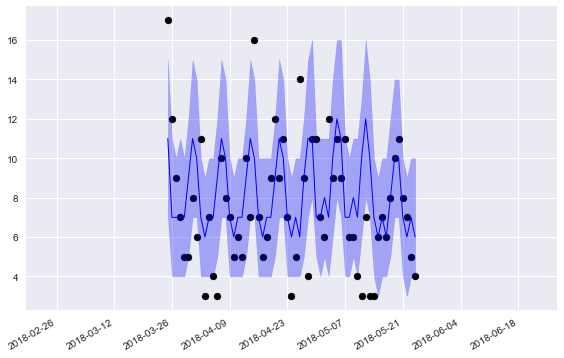
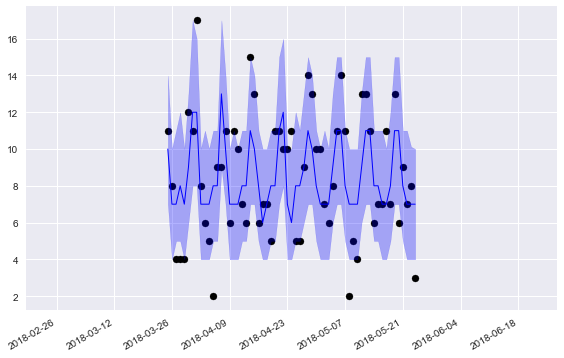
updating example

diff --git a/_posts/2019-10-24-pybats_example.md b/_posts/2019-10-24-pybats_example.md
@@ -13,12 +13,12 @@ In this example we will model a simulated dataset of daily item sales. Because t
 
 $$y_t \sim Pois(\mu_t)$$
 
-$$ log(\mu_t) = \lambda_t = F_t^{'} \theta_t $$
+$$\log(\mu_t) = \lambda_t = F_t^{'} \theta_t$$
 
 
-Where:
-$$\theta_t$$ is the state vector,
-$$\mu_t$$ is the Poisson mean, 
+Where 
+$$\theta_t$$ is the state vector, 
+$$\mu_t$$ is the Poisson mean, and 
 $$\lambda_t$$ is called the linear predictor.
 
 We're going to define a dynamic model with the following components in the state vector:
@@ -84,33 +84,33 @@ data.head()
   <tbody>
     <tr>
       <td>2014-06-01</td>
-      <td>6.0</td>
-      <td>-0.03</td>
+      <td>16.0</td>
+      <td>0.10</td>
       <td>0.0</td>
     </tr>
     <tr>
       <td>2014-06-02</td>
-      <td>10.0</td>
-      <td>0.14</td>
-      <td>0.0</td>
+      <td>6.0</td>
+      <td>-0.12</td>
+      <td>1.0</td>
     </tr>
     <tr>
       <td>2014-06-03</td>
-      <td>8.0</td>
-      <td>-0.09</td>
-      <td>0.0</td>
+      <td>11.0</td>
+      <td>0.06</td>
+      <td>1.0</td>
     </tr>
     <tr>
       <td>2014-06-04</td>
-      <td>6.0</td>
-      <td>-0.13</td>
+      <td>11.0</td>
+      <td>0.09</td>
       <td>0.0</td>
     </tr>
     <tr>
       <td>2014-06-05</td>
-      <td>10.0</td>
-      <td>-0.05</td>
-      <td>0.0</td>
+      <td>18.0</td>
+      <td>0.09</td>
+      <td>1.0</td>
     </tr>
   </tbody>
 </table>
@@ -191,7 +191,7 @@ plt.show(fig)
 ![png](../img/pybats_example_imgs/output_14_0.png)
 
 
-We're plotting the median forecasts along with the 75\% credible intervals. One very clear pattern is the weekly effect, with a weekly spike in our forecasts. There's also a very noticable holiday effect - sales are unpredictable on holidays, and our credible intervals become very large.
+We're plotting the median forecasts along with the 75% credible intervals. One very clear pattern is the weekly effect, with a weekly spike in our forecasts. There's also a very noticable holiday effect - sales are unpredictable on holidays, and our credible intervals become very large.
 
 You're probably wondering: How accurate are those point forecasts?
 
@@ -202,15 +202,15 @@ print(MAD(data_1step.Sales, median(samples_1step)))
 print(ZAPE(data_1step.Sales, median(samples_1step)))
 ```
 
-    2.35559921415
-    36.7385246064
+    2.86935166994
+    43.2259680035
 
 
 The first loss function is the Mean Absolute Deviation (MAD). Note that we're using the median for our point forecast - the median is the optimal forecast for minimizing the MAD, just as the mean is optimal for minimizing the Mean Square Error (MSE).
 
 The second number is the Zero-Adjusted Absolute Percent Error (ZAPE). This is equivalent to the Mean Absolute Percent Error (MAPE), but is still defined even when the sales are 0. On days when sales are 0, then the ZAPE loss is equal to the forecast. Interpreting this as a percent error metric, we're off by a significant margin - but not bad for noisy sales data either! The median is not the optimal forecast to minimize ZAPE, but it's a simple and easy point forecast to obtain.
 
-Okay, now let's zoom in to just the final 60 days of forecasting, to a more detail picture of our online, sequential forecasts:
+Okay, now let's zoom in to just the final 60 days of forecasting, to a more detailed picture of our online, sequential forecasts:
 
 
 ```python
@@ -234,7 +234,7 @@ plt.show(fig)
 ![png](../img/pybats_example_imgs/output_19_0.png)
 
 
-These forecasts look pretty good! Our 75\% credible intervals capture the true sales most of the time, as it should.  The weekly pattern is much more clearly visible here.
+These forecasts look pretty good! Our 75% credible intervals capture the true sales most of the time, as it should.  The weekly pattern is much more clearly visible here.
 
 What if we want to monitor the day-of-week effects? It looks like they're changing over time - what days are becoming more or less popular? Well, that's why we saved the model coefficients, so we can answer exactly that question!
 
@@ -274,7 +274,7 @@ days = ['Monday', 'Tuesday', 'Wednesday', 'Thursday', 'Friday', 'Saturday', 'Sun
 
 
 ```python
-start_day = 200
+start_day = 200    # Only starting to plot after model has learned the day-of-week effect
 fig, ax = plt.subplots(1,1)
 ax = plot_coef(fig, ax, dow_post_mean_plot.iloc[start_day:], dates=data.iloc[start_day:].loc[:forecast_end].index, legend=days)
 ```
@@ -290,7 +290,7 @@ plt.show(fig)
 
 Okay, now this is interesting! We have a few clear takeaways:
 
-- Saturday and Sunday have the highest sales, followed by Friday
+- Saturday and Sunday have the highest sales
 - Monday through Thursday all have very similar sales, with coefficients between -0.1 to -0.2.
 
 These effects in the state space are additive on the log scale. Remember the Poisson DGLM has a log-link function:
@@ -323,12 +323,13 @@ plt.show(fig)
 ![png](../img/pybats_example_imgs/output_33_0.png)
 
 
-Perfect, this is very clear! A multiplicative seasonal effect of 1 has no effect on Sales. Anything larger than 1 boosts sales, and smaller than 1 reduces them.
+Perfect, this is very clear! A multiplicative seasonal effect of 1 has no effect on Sales. Anything larger than 1 boosts sales, and smaller than 1 reduces them. Looking at the end of the time period, we can say:
 
-- Saturday and Sunday have around 30-40% higher sales than the average day, and Friday has around 10% higher sales. 
+- Saturday and Sunday have around 30-40% higher sales than the average day.
 - Monday-Thursday all have between 10-20% lower sales than the average day.
+- Friday lands in the middle, with approximately average sales.
 
-The long term trends look fairly stable, which is natural - shopping habits change slowly over time. Part of that also comes from our model definition. The discount factor on the seasonality is very close to 1, so we discount historical information very slowly. If we believed that these trends changed more rapidly over time, we could re-run the analysis with a lower discount factor, using the parameter _delseas_ as an argument to the analysis function.
+The long term trends look fairly stable, which is natural - shopping habits change slowly over time. Part of that also comes from our model definition. The discount factor on the seasonality component is very close to 1, so we discount historical information slowly. If we believed that these day-of-week effects changed more rapidly over time, we could re-run the analysis with a lower discount factor, using the parameter _delseas_ as an argument to the analysis function.
 
 ### Conclusions
 
@@ -342,5 +343,5 @@ In this example we've used the PyBATS package to complete an analysis of simulat
 There's plenty more that we could have explored here as well:
 
 - Forecasts with a longer horizon. How accurate are our 7-day ahead forecasts, and are they also well calibrated?
-- Other state vector components, such as the trend, regression, and holiday terms. They are all saved in the _model_coef_ output. To interpret them, we need to transform from the log scale into the space of the conjugate prior, just as we did with the seasonal effects.
+- Other state vector components, such as the trend, regression, and holiday terms. They are all saved in the *model_coef* output. To interpret them, we need to transform from the log scale into the space of the conjugate prior, just as we did with the seasonal effects.
 - Forecast _totals_ over the next week or month. This type of forecasting requires drawing joint samples over 1:k days into the future, and then taking a sum over each sample from the forecast distribution. This is known as _path forecasting_, and can be accomplished with the method *mod.path_forecast*.
